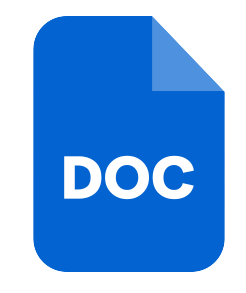
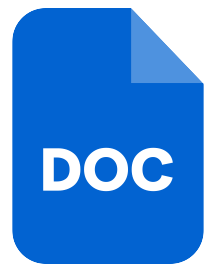
fix datarowlist columns

Changed region(s): [[0.0556, 0.029, 0.9444, 0.9565], [0.1944, 0.5217, 0.8056, 0.6957], [0.6389, 0.5217, 0.7778, 0.5797]]

diff --git a/client/src/components/Documents/DocumentTable.js b/client/src/components/Documents/DocumentTable.js
@@ -8,6 +8,12 @@ import pdf from '../../assets/pdf.png';
 import txt from '../../assets/txt.png';
 import xls from '../../assets/xls.png';
 import zip from '../../assets/zip.png';
+import {
+  NameColumn,
+  SharedByColumn,
+  LastModifiedColumn,
+  FileSizeColumn,
+} from "../../styles/DocumentTable.styles";
 
 const DocumentTable = ({route}) => {
   const [files, setFiles] = useState([]);
@@ -83,7 +89,7 @@ const DocumentTable = ({route}) => {
             <img
               src={getIconURLByExtension(file.extension)}
               alt={file.extension}
-              style={{ width: "80px", height: "80px", cursor: "pointer" }}
+              style={{ width: "60px", height: "80px", cursor: "pointer" }}
               onClick={() => downloadFile(file.id, file.filename)}
             />
             <p>{file.filename}</p>
@@ -91,37 +97,48 @@ const DocumentTable = ({route}) => {
         )) : <></>}
       </DataGrid>
       <div>
-        <DataListRow>
-          <p>
-            <b>
-            Name <ArrowDownwardIcon />
-            </b>
-          </p>
-          <p>
-            <b>Shared by</b>
-          </p>
-          <p>
-            <b>Last Modified</b>
-          </p>
-          <p>
-            <b>File Size</b>
-          </p>
-        </DataListRow>
-        { files ?
-        files.map((file) => (
-          <DataListRow key={file.id} onClick={()=>downloadFile(file.id, file.filename)}>
-            <p>
+      <DataListRow>
+      <NameColumn>
+        <b>
+          Name <ArrowDownwardIcon />
+        </b>
+      </NameColumn>
+      <SharedByColumn>
+        <b>Shared by</b>
+      </SharedByColumn>
+      <LastModifiedColumn>
+        <b>Last Modified</b>
+      </LastModifiedColumn>
+      <FileSizeColumn>
+        <b>File Size</b>
+      </FileSizeColumn>
+    </DataListRow>
+    {files
+      ? files.map((file) => (
+          <DataListRow
+            key={file.id}
+            onClick={() => downloadFile(file.id, file.filename)}
+          >
+            <NameColumn>
               <img
                 src={getIconURLByExtension(file.extension)}
                 alt={file.extension}
-                style={{ width: "22px", height: "22px", marginRight: "10px" }}
+                style={{
+                  width: "22px",
+                  height: "22px",
+                  marginRight: "10px",
+                }}
               />
               {file.filename}
-            </p>
-            <p>{new Date(file.timestamp * 1000).toUTCString()}</p>
-            <p>{byteConvert(file.size)}</p>
+            </NameColumn>
+            <SharedByColumn></SharedByColumn>
+            <LastModifiedColumn>
+              {new Date(file.timestamp * 1000).toUTCString()}
+            </LastModifiedColumn>
+            <FileSizeColumn>{byteConvert(file.size)}</FileSizeColumn>
           </DataListRow>
-        )) : <></>}
+        ))
+      : ""}
       </div>
     </div>
   );

diff --git a/client/src/styles/DocumentTable.styles.js b/client/src/styles/DocumentTable.styles.js
@@ -67,6 +67,26 @@ const DataFile = styled.div`
   }
 `;
 
+const Column = styled.p`
+  margin: 0;
+  padding: 0;
+`;
+
+const NameColumn = styled(Column)`
+  width: 20%;
+`;
+
+const SharedByColumn = styled(Column)`
+  width: 20%;
+`;
+
+const LastModifiedColumn = styled(Column)`
+  width: 20%;
+`;
+
+const FileSizeColumn = styled(Column)`
+  width: 10%;
+`;
 
 export {
   DataGrid,
@@ -74,4 +94,8 @@ export {
   DataFile,
   DataContainer,
   DataHeader,
-}
+  NameColumn,
+  SharedByColumn,
+  LastModifiedColumn,
+  FileSizeColumn,
+};
